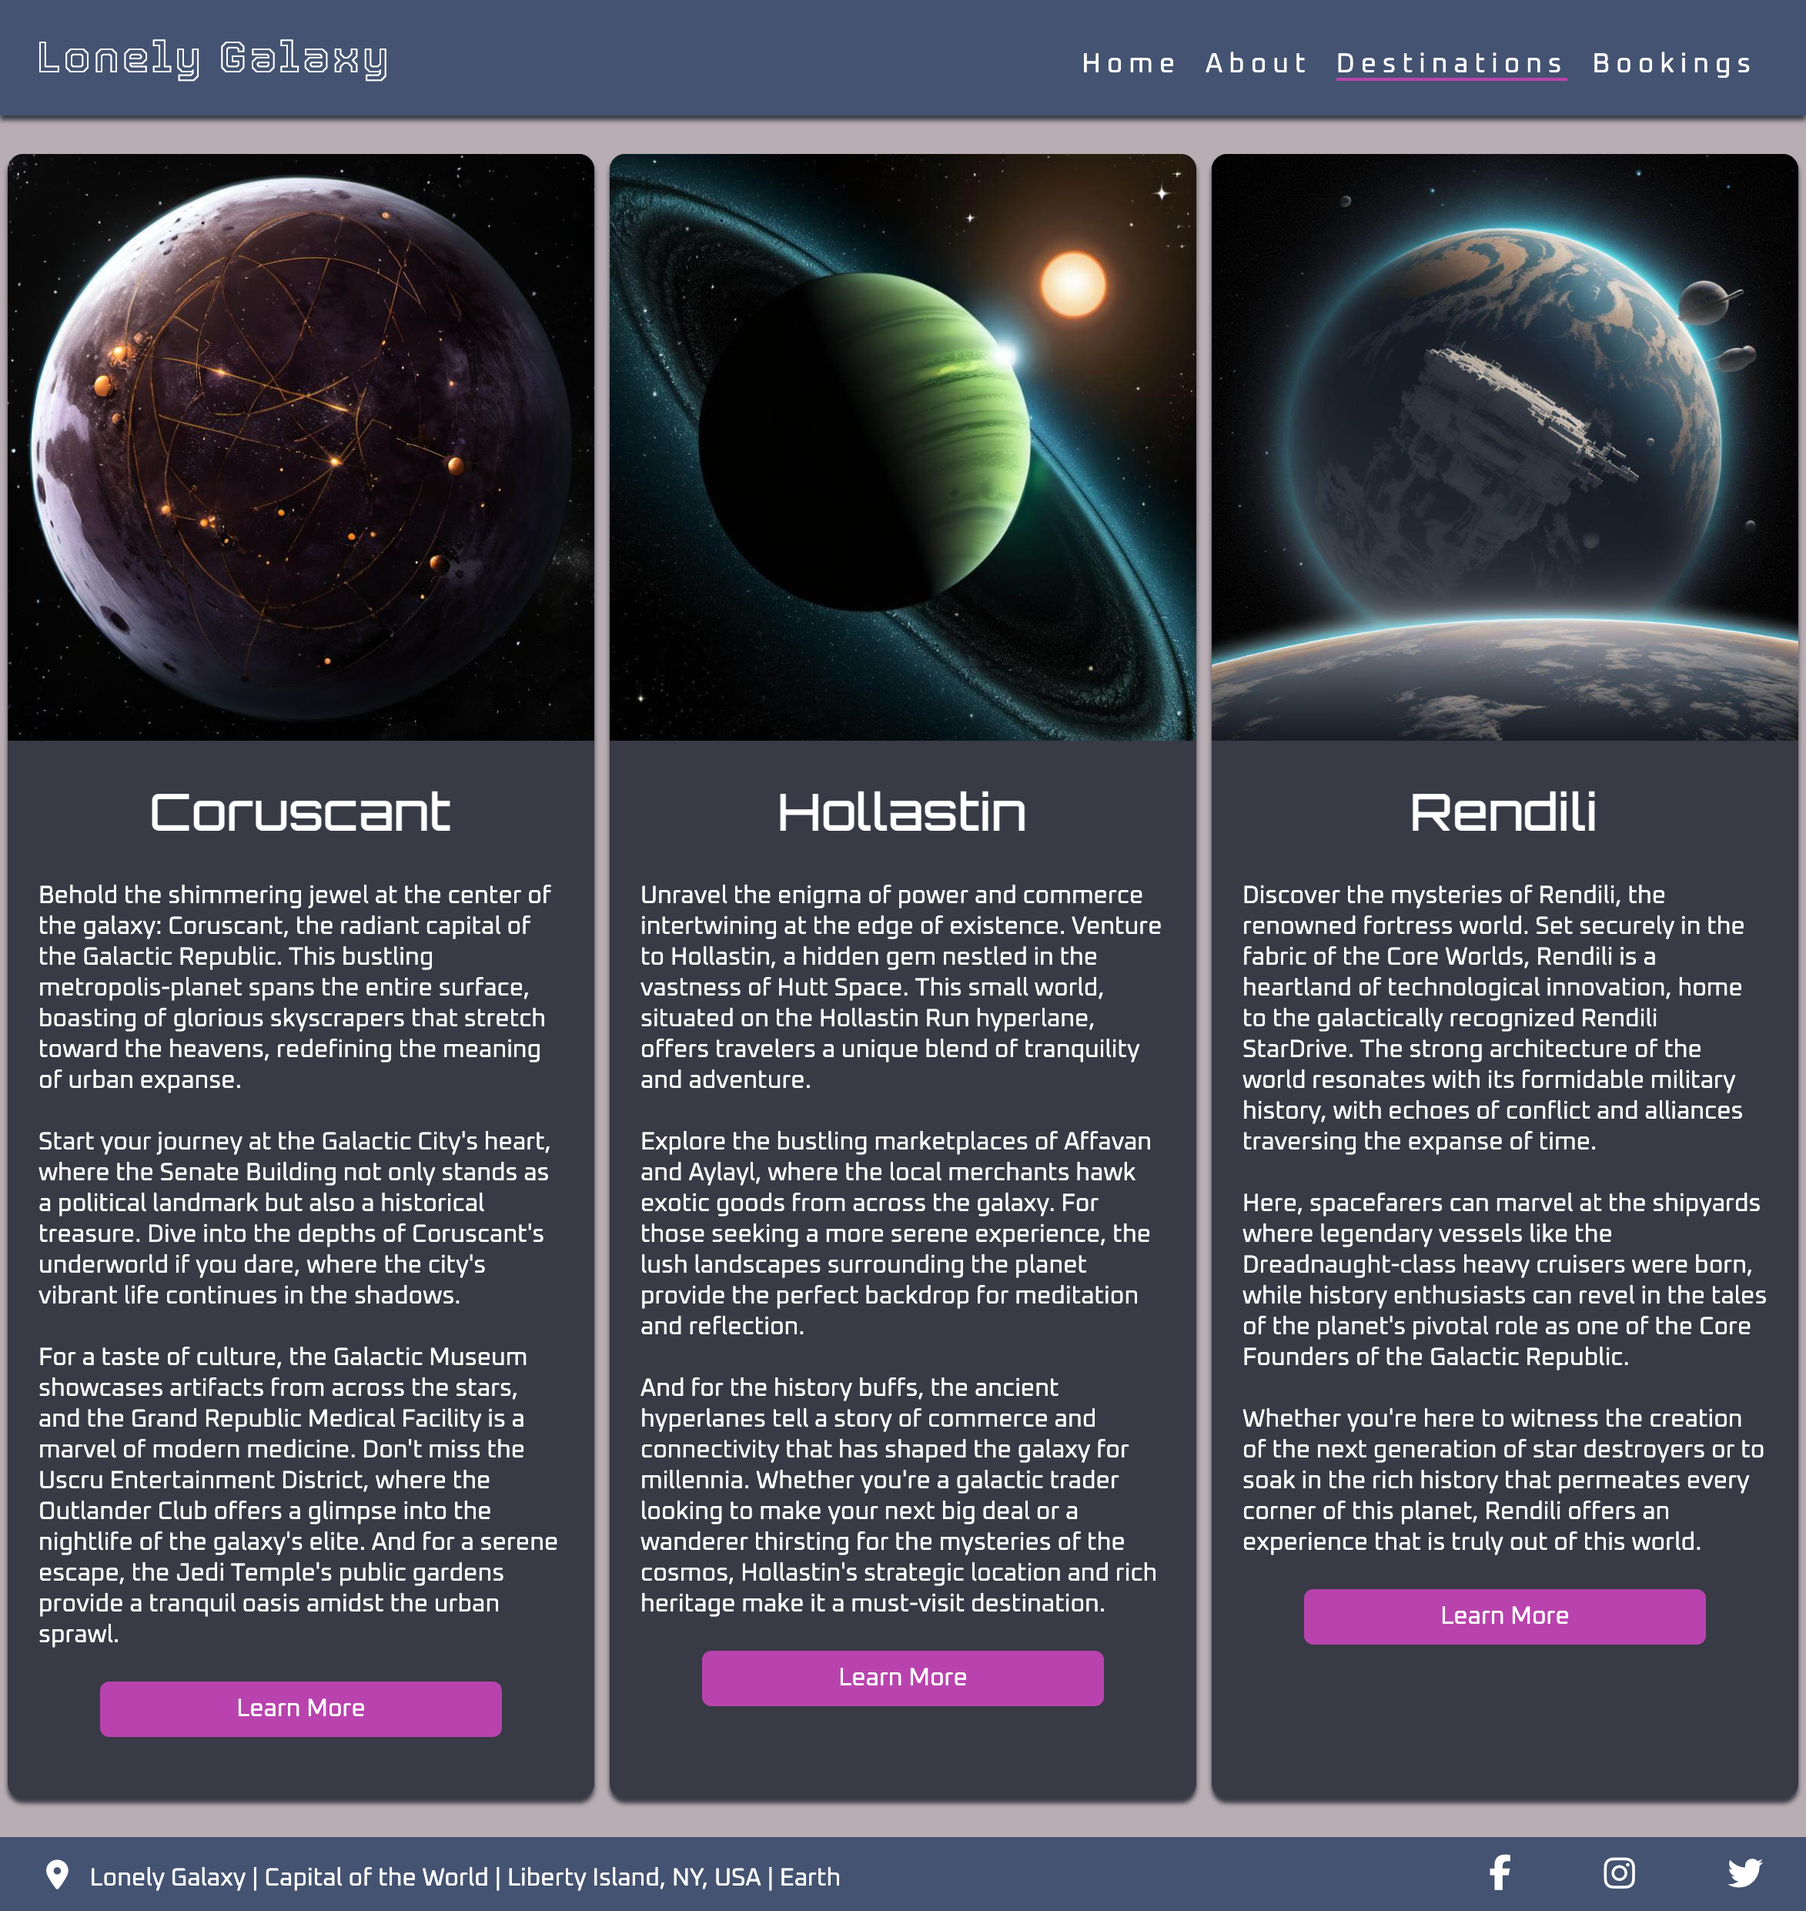
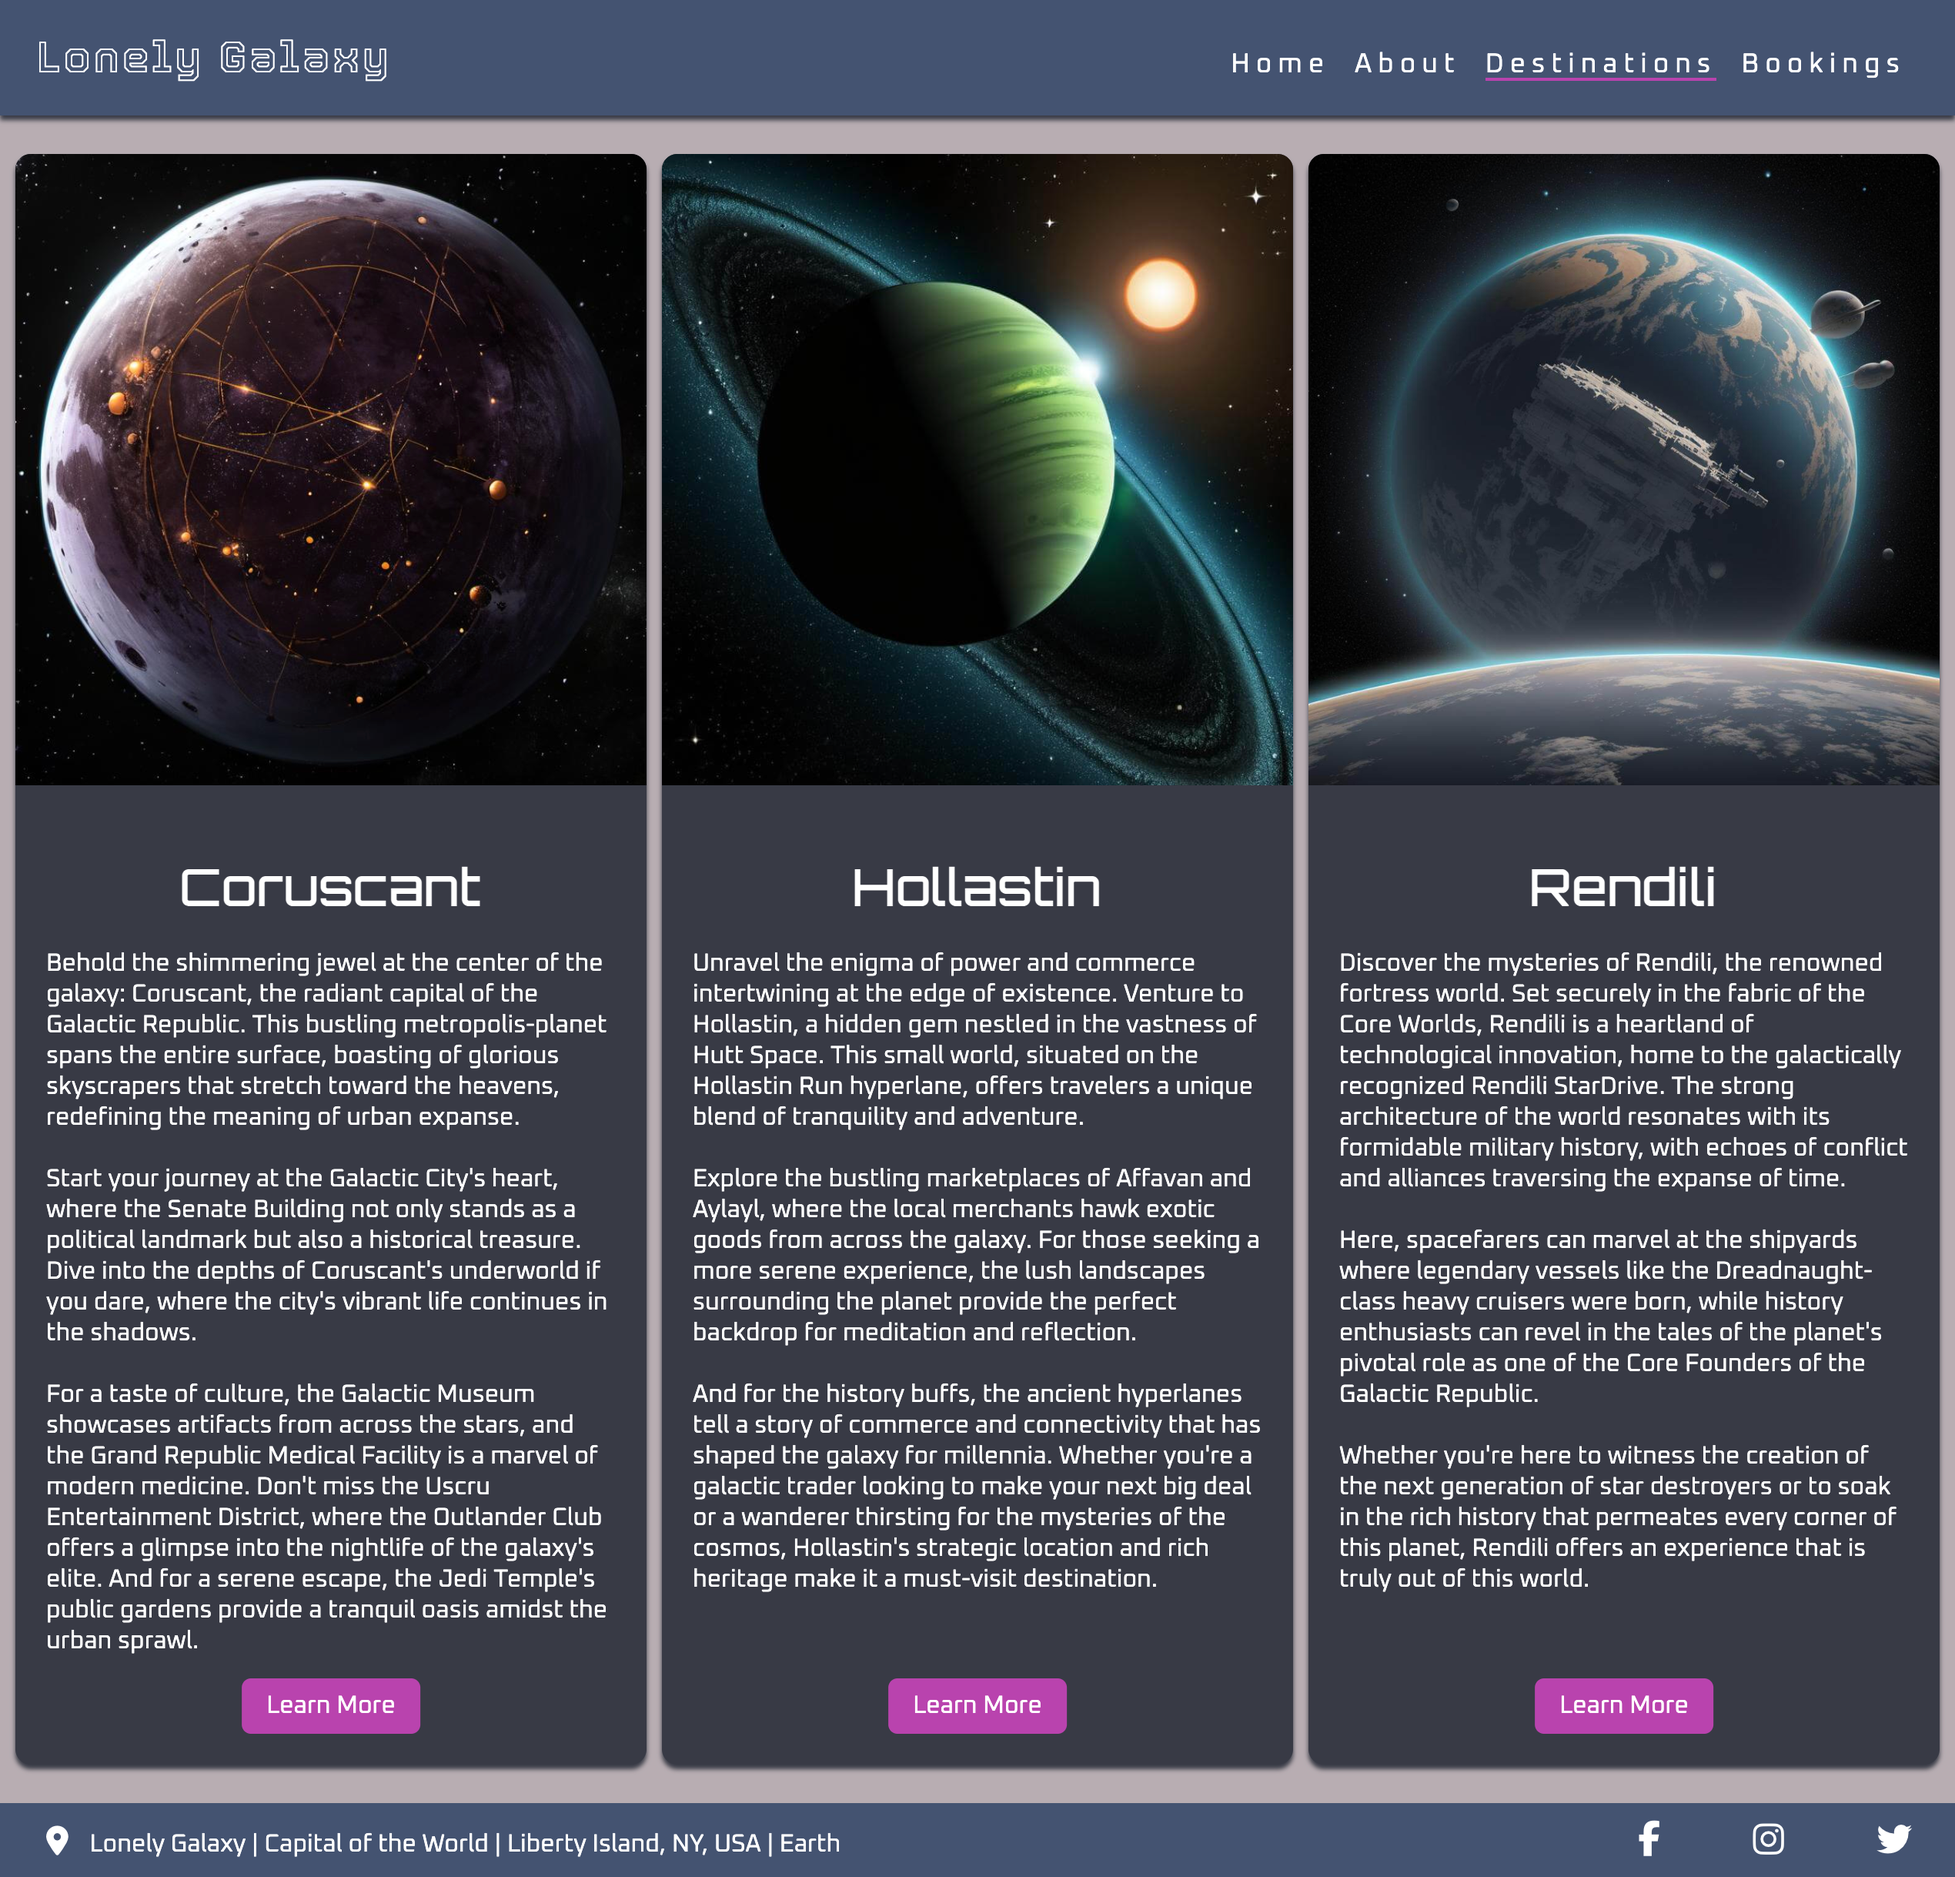
align buttons in planet cards

Changed region(s): [[0.0, 0.0, 1.0, 0.9975], [0.2489, 0.187, 0.2801, 0.3429]]

diff --git a/destinations.html b/destinations.html
@@ -73,8 +73,8 @@
                         where the Outlander Club offers a glimpse into the nightlife of the galaxy's elite. 
                         And for a serene escape, the Jedi Temple's public gardens provide a tranquil oasis amidst the urban sprawl.
                     </p>
-                    <a href="bookings.html" class="card-button">Learn More</a>
                 </div>
+                <a href="bookings.html" class="card-button">Learn More</a>
             </div>
 
             <!-- Hollastin -->
@@ -96,8 +96,8 @@
                         or a wanderer thirsting for the mysteries of the cosmos, 
                         Hollastin's strategic location and rich heritage make it a must-visit destination. 
                     </p>
-                    <a href="bookings.html" class="card-button">Learn More</a>
                 </div>
+                <a href="bookings.html" class="card-button">Learn More</a>
             </div>
 
             <!-- Rendili -->
@@ -117,8 +117,8 @@
                         or to soak in the rich history that permeates every corner of this planet, 
                         Rendili offers an experience that is truly out of this world.
                     </p>
-                    <a href="bookings.html" class="card-button">Learn More</a>
                 </div>
+                <a href="bookings.html" class="card-button">Learn More</a>
             </div>
         </section>
     </main>

diff --git a/assets/css/style.css b/assets/css/style.css
@@ -144,8 +144,7 @@ main {
     flex-direction: column;
     align-items: center;
     gap: 10px;
-    margin-top: 25px;
-    margin-bottom: 25px;
+    margin-top: 25px 10px;
 }
 
 .card {
@@ -156,6 +155,7 @@ main {
     background-color: #383a45;
     color: #ffffff;
     transition: transform 0.6s ease;
+    position: relative;
 }
 
 .card img {
@@ -165,6 +165,8 @@ main {
 
 .card-content {
     padding: 20px;
+    position: relative;
+    margin-bottom: 50px;
 }
 
 .card-content h2 {
@@ -187,7 +189,13 @@ main {
     border-radius: 6px;
     padding: 8px 16px;
     text-align: center;
-    margin: 20px 40px;
+    /* margin: 20px 40px; */
+    position: absolute;
+    bottom: 10px;
+    left: 50%;
+    transform: translate(-50%, 0);
+    position: absolute;
+    bottom: 20px;
 }
 
 /* Hover Effects for planet cards */
@@ -423,7 +431,7 @@ footer a {
         display: flex;
         flex-direction: row;
         justify-content: space-between;
-        margin: 25px 5px;
+        margin: 25px 10px;
         align-items: stretch;
     }
 
